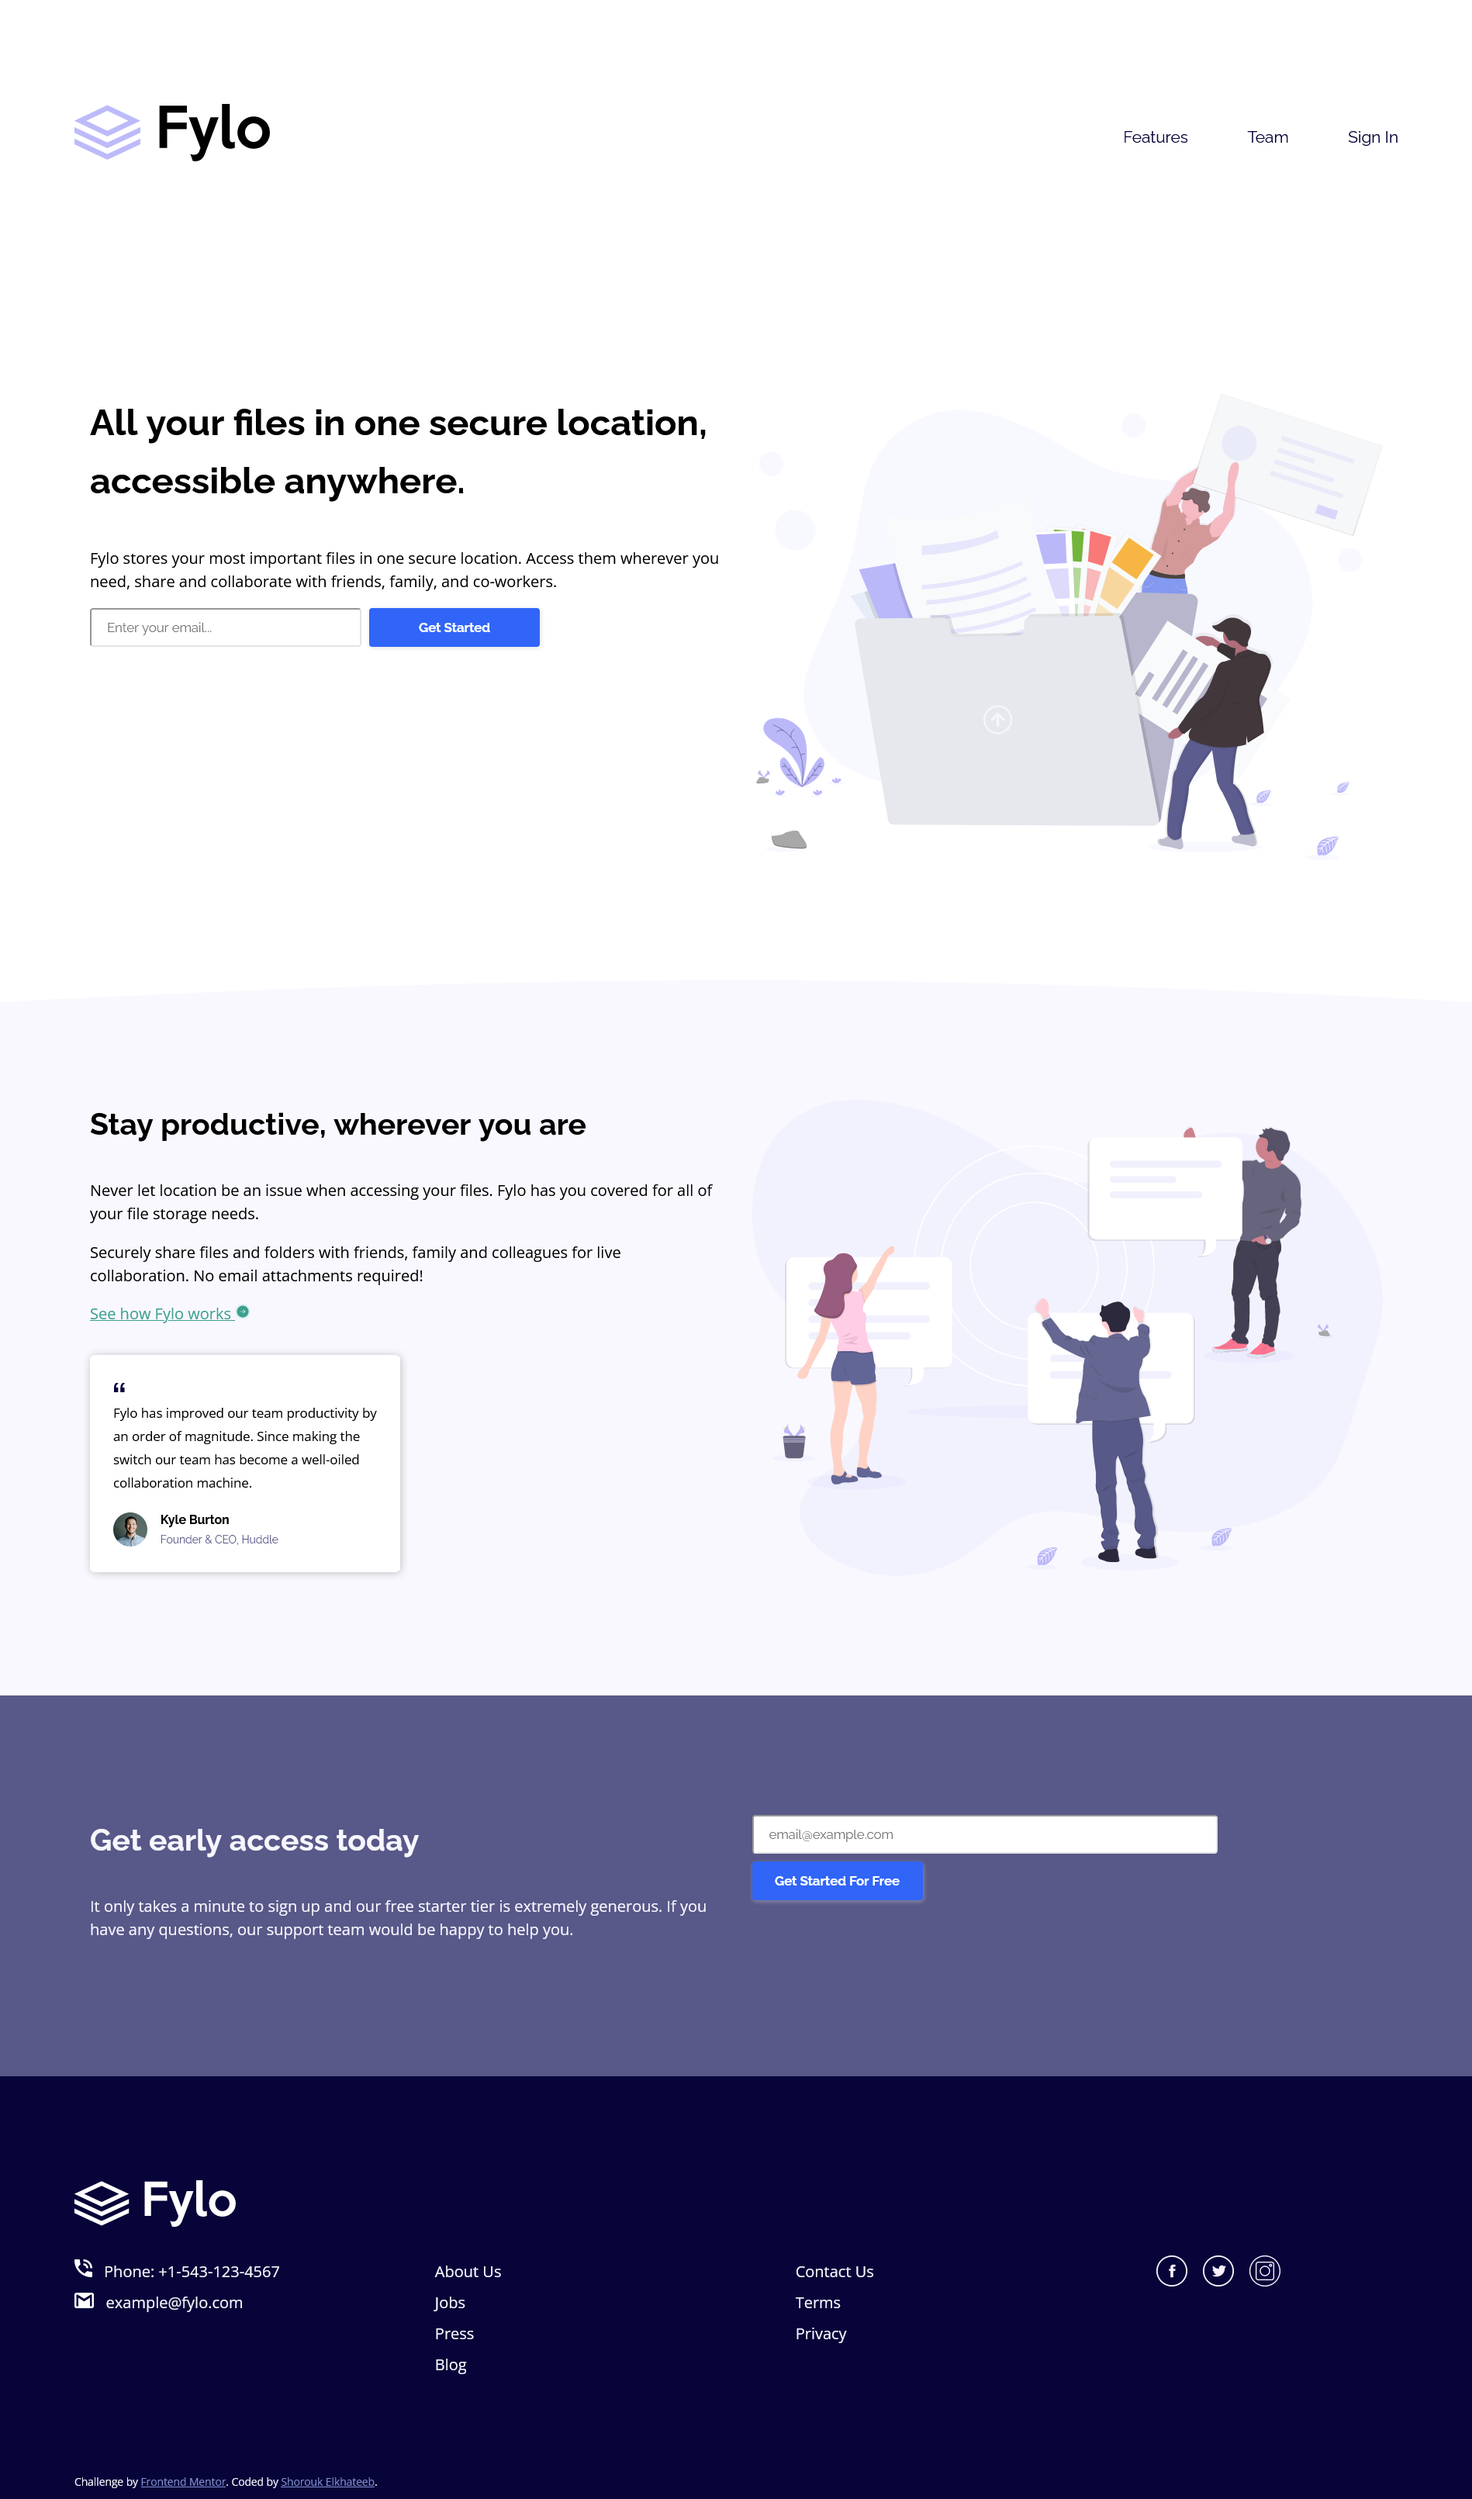
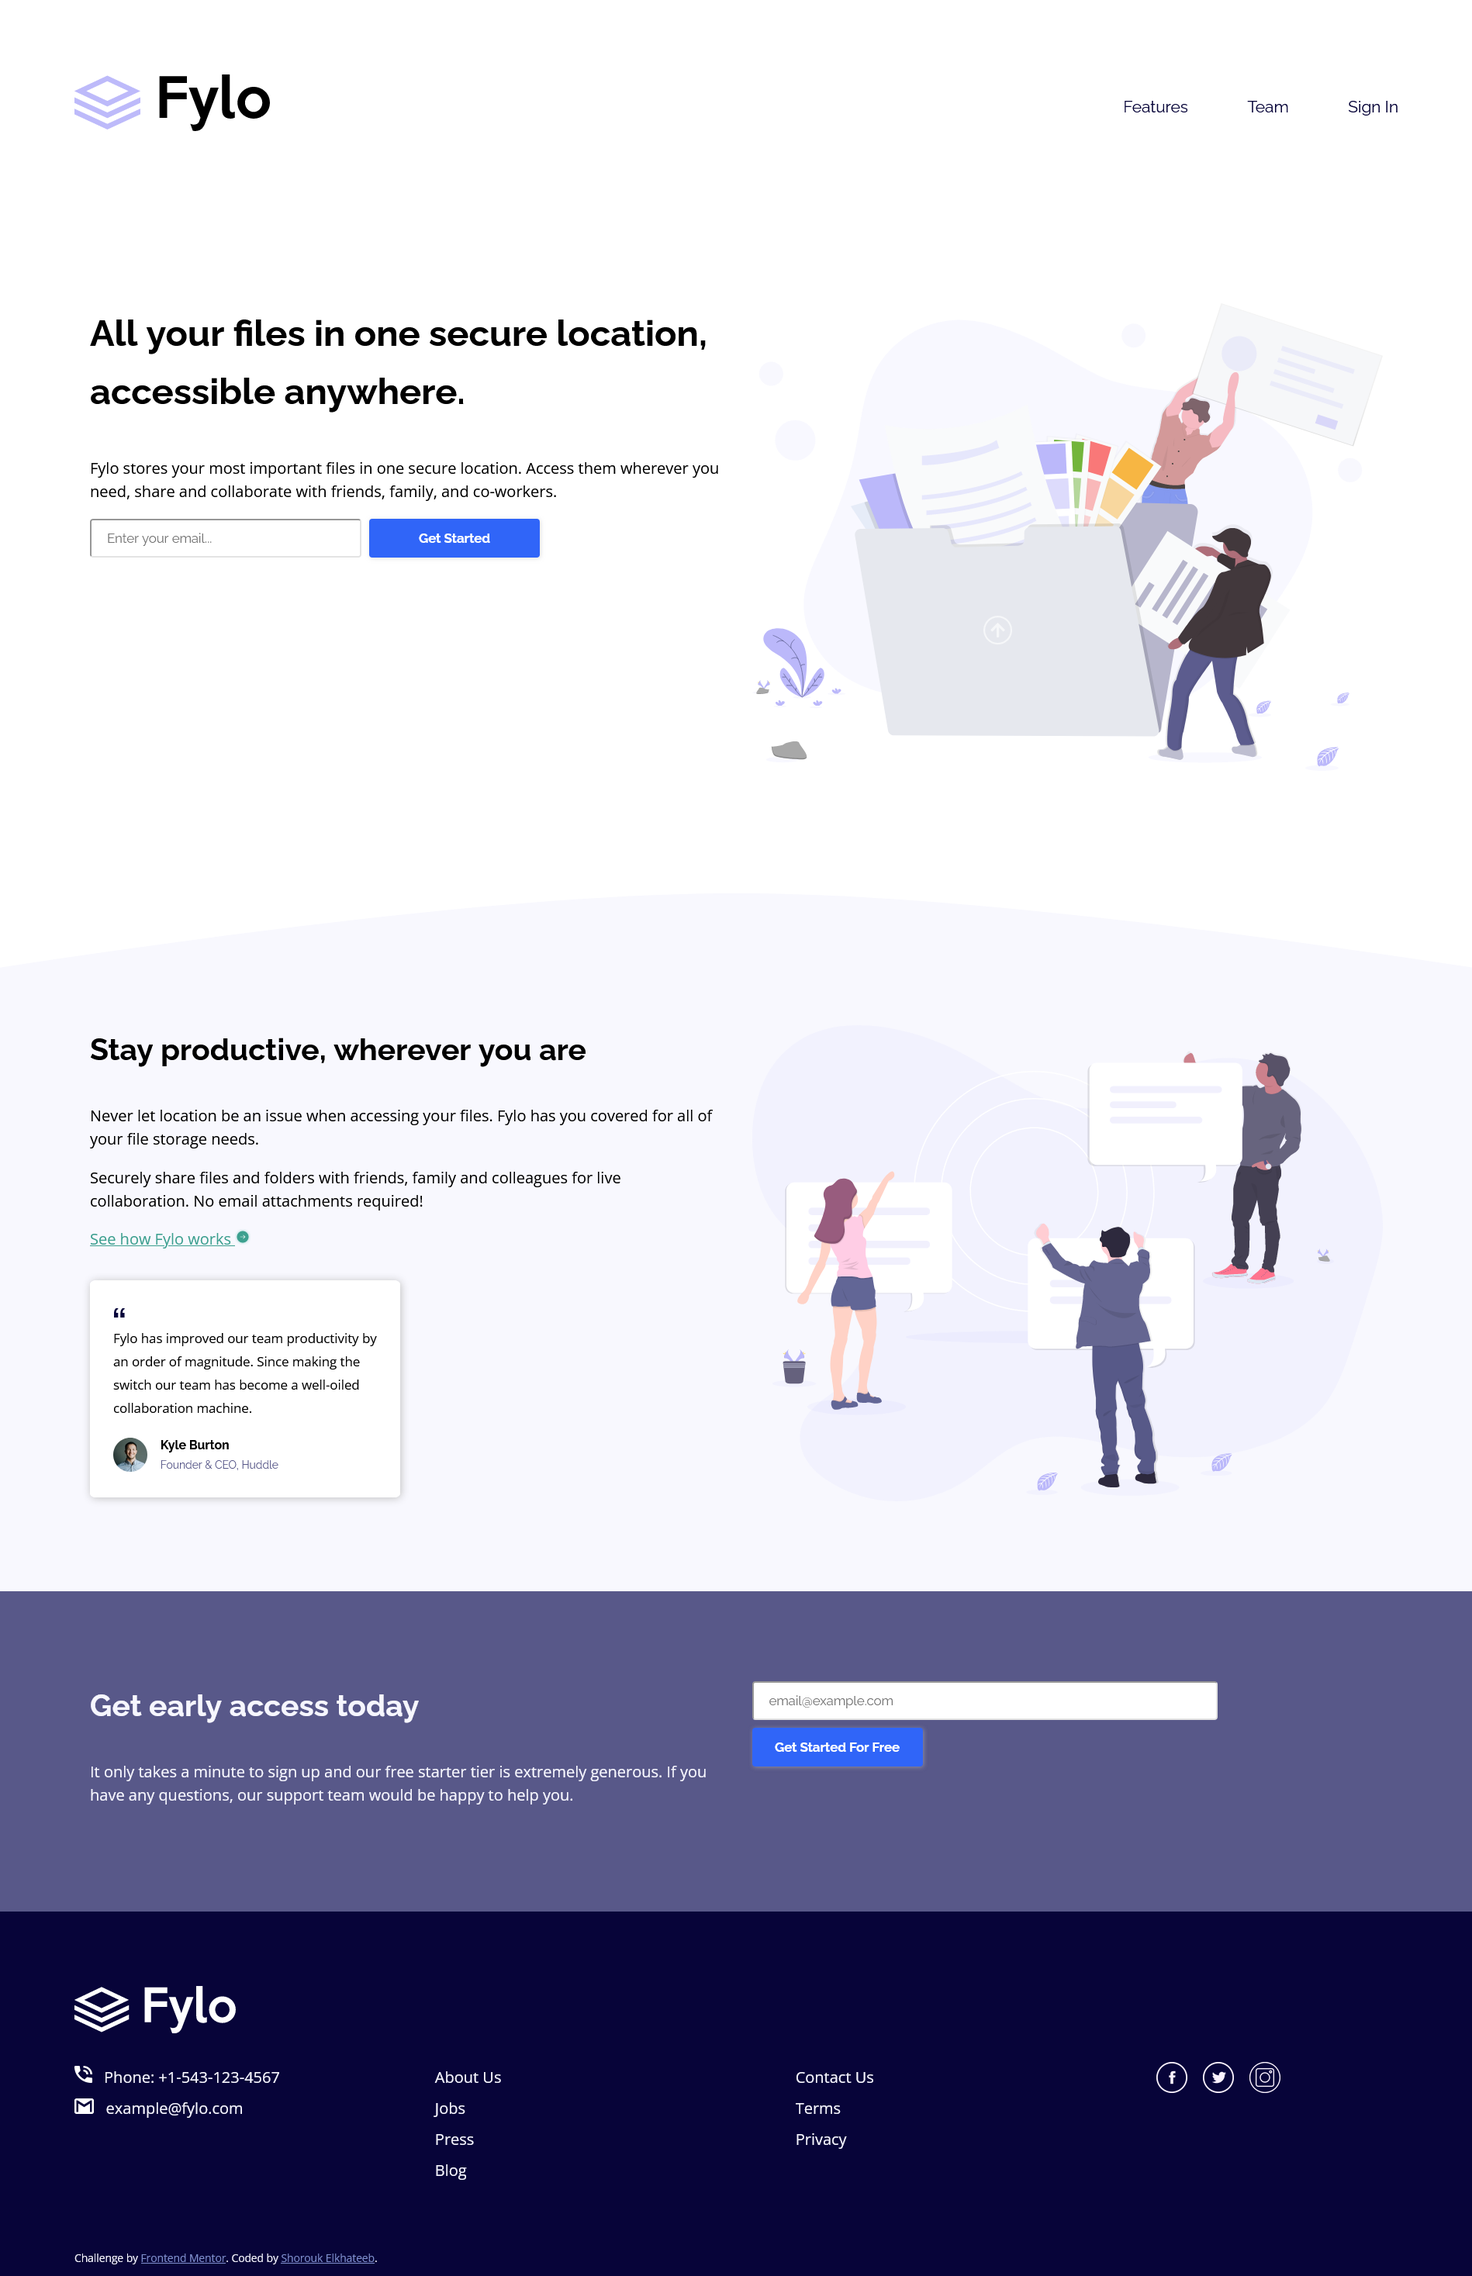
Fix curved background

diff --git a/css/style.css b/css/style.css
@@ -12,7 +12,7 @@
   --color-moderate-cyan: hsl(170, 45%, 43%);
   --color-light-grayish-blue: hsl(240, 80%, 98%);
   --color-light-gray: hsl(0, 0%, 75%);
-  --padding-main: 7vw 5vw;
+  --padding-main: 5vw;
 }
 
 body {
@@ -74,6 +74,10 @@ section > * {
   width: 300px;
   flex: 1 1 45%;
   margin: 1em;
+}
+
+section:nth-child(1) {
+  margin-bottom: calc(var(--padding-main) * 2);
 }
 
 section:nth-child(1) h2 {
@@ -144,10 +148,18 @@ section:nth-child(2) h2 {
 }
 
 section:nth-child(2) {
-  background-image: url(../images/bg-curve-desktop.svg);
-  background-repeat: no-repeat;
-  background-position: center;
-  background-size: cover;
+  background-color: #f8f8fe;
+  padding-top: 0;
+  position: relative;
+}
+
+section:nth-child(2) .curve {
+  width: 100%;
+  position: absolute;
+  bottom: 100%;
+  left: 0;
+  margin: 0;
+  z-index: -1;
 }
 
 section:nth-child(2) a {
@@ -335,8 +347,8 @@ ul a {
     width: 100%;
   }
 
-  section:nth-child(2) {
-    background-image: url(../images/bg-curve-mobile.svg);
+  .curve {
+    content: url(../images/bg-curve-mobile.svg);
   }
 }
 

diff --git a/index.html b/index.html
@@ -64,6 +64,7 @@
         </article>
       </section>
       <section>
+        <img src="./images/bg-curve-desktop.svg" alt="curved background" class="curve">
         <img
           src="./images/illustration-2.svg"
           alt="Stay productive, wherever you are"

diff --git a/README.md b/README.md
@@ -53,6 +53,7 @@ Users should be able to:
 ### Useful resources
 
 - [Form Validation UX in HTML and CSS](https://css-tricks.com/form-validation-ux-html-css/) - This helped me for XYZ reason. I really liked this pattern and will use it going forward.
+- [ryodgie/fylo-landing-page](https://github.com/ryodgie/fylo-landing-page) - This repo helped me fix the curved background.
 
 ## Author
 
